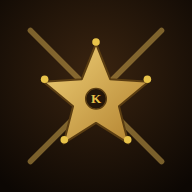
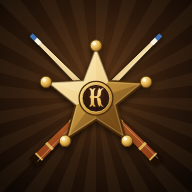
Nouvelle icône, persos animaux aussi en thème Classique
Claude-Session: https://claude.ai/code/session_01RL4nbqDiykBYGHMNMnjLsM

Changed region(s): [[0.125, 0.125, 0.875, 0.875]]

diff --git a/app.js b/app.js
@@ -729,16 +729,12 @@ function avatarHtml(theme, number, size, uidStr) {
     ? '<div class="charImgWrap" style="width:' + size + 'px;height:' + size + 'px;border-radius:10px;flex-shrink:0">' + cardArtHtml(number, null, false) + '</div>'
     : svgBall(number, size, uidStr);
 }
+// Les deux thèmes utilisent les persos (plus de boules de billard).
 function cardFaceHtml(theme, ball, name) {
-  if (theme === "lounge") {
-    return '<div class="cardArtWrap">' + cardArtHtml(ball, name, false) + '</div>';
-  }
-  return '<div class="cardFrontInner">' + svgBall(ball, 30) + '<span class="cardFrontName">' + escapeHtml(name) + '</span></div>';
+  return '<div class="cardArtWrap">' + cardArtHtml(ball, name, false) + '</div>';
 }
 function cardBackHtml(theme) {
-  return '<div class="cardBackInner">' + (theme === "lounge"
-    ? '<span class="cardBackMonogram">K</span>'
-    : '<span class="cardBackEmoji">🎱</span>') + '</div>';
+  return '<div class="cardBackInner"><span class="cardBackMonogram">K</span></div>';
 }
 function cardSlotHtml(theme, id, players, up, isCurrent) {
   var player = null;
@@ -1581,7 +1577,7 @@ function confettiHtml() {
 /* Avatar : perso (Saloon) ou boule (Classique), couronne si Roi */
 function avatar(ball, size, name, extra) {
   var inner = ball != null
-    ? (state.theme === "lounge" ? cardArtHtml(ball, null, false) : '<span class="avBall">' + svgBall(ball, Math.round(size * 0.78)) + '</span>')
+    ? cardArtHtml(ball, null, false)
     : '<span class="avInitial">' + esc(String(name || "?").charAt(0).toUpperCase()) + '</span>';
   var crown = name && isKing(name) ? '<span class="avCrown">' + crownSvg(Math.round(size * 0.42)) + '</span>' : "";
   return '<span class="av' + (extra ? " " + extra : "") + '" style="width:' + size + 'px;height:' + size + 'px">' + '<span class="avClip">' + inner + '</span>' + crown + '</span>';
@@ -1754,8 +1750,7 @@ function renderGameScreen() {
 
 /* ---- Carte piochée en grand ---- */
 function bigCardHtml(p) {
-  if (state.theme === "lounge") return '<div class="bigCard" id="spotCard">' + cardArtHtml(p.ball, null, false) + '</div>';
-  return '<div class="bigCard classicBig" id="spotCard"><div class="bigBall">' + svgBall(p.ball, 150) + '</div></div>';
+  return '<div class="bigCard" id="spotCard">' + cardArtHtml(p.ball, null, false) + '</div>';
 }
 function renderSpotlight() {
   if (!ui.spotlight || ui.activeTab !== "play" || state.phase !== "game") return "";
@@ -1809,7 +1804,7 @@ function renderFinal() {
 function renderPoster(rank, e) {
   var fav = favoriteCardFor(e.name);
   var tilt = [-2.2, 1.8, -1.2, 2.4][rank % 4];
-  var portrait = fav != null ? (state.theme === "lounge" ? cardArtHtml(fav, null, false) : '<div class="posterBall">' + svgBall(fav, 58) + '</div>') : '<span class="posterInitial">' + esc(e.name.charAt(0).toUpperCase()) + '</span>';
+  var portrait = fav != null ? cardArtHtml(fav, null, false) : '<span class="posterInitial">' + esc(e.name.charAt(0).toUpperCase()) + '</span>';
   return '<button class="poster enter" data-key="poster-' + esc(e.name) + '" style="--tilt:' + tilt + 'deg;--d:' + Math.min(rank, 10) * 50 + 'ms" ' + btnAttr("open-profile", 'data-name="' + esc(e.name) + '"') + '>' +
     '<span class="posterPin"></span>' + (rank === 1 ? '<span class="posterCrown">' + crownSvg(14, "inline") + esc(t("kingOfPool")) + '</span>' : "") +
     '<span class="posterHeading">' + esc(t("wanted")) + '</span><span class="posterRule"></span>' +
@@ -1907,7 +1902,7 @@ function renderProfileSheet() {
     statTile(icon("target", 18), t("statRate"), pr.rate == null ? "—" : pr.rate + "%") +
     statTile(icon("flame", 18), t("statStreak"), pr.streak) +
     statTile(icon("sparkle", 18), t("statBest"), pr.best) +
-    statTile(icon("cards", 18), t("statFav"), fav != null ? esc(state.theme === "lounge" ? animalName(fav) : "n° " + fav) : "—") +
+    statTile(icon("cards", 18), t("statFav"), fav != null ? esc(animalName(fav)) : "—") +
     statTile(icon("check", 18), t("statLast"), pr.last ? esc(fmtShortDate(pr.last)) : esc(t("never"))) +
     '</div><p class="hint center small">' + esc(t("streakNote")) + '</p></div></div>';
 }

diff --git a/app.css b/app.css
@@ -169,7 +169,6 @@ textarea.input{height:auto;min-height:104px;padding:12px 14px;font-size:14px;res
 .avBall{display:flex;}
 .avInitial{font-family:var(--fDisplay);font-size:24px;color:var(--gold2);}
 .avCrown{position:absolute;top:-10px;right:-8px;transform:rotate(16deg);filter:drop-shadow(0 2px 2px rgba(0,0,0,.55));line-height:0;}
-[data-theme="classic"] .avClip{background:transparent;border:none;}
 .crown{display:block;}
 .crown.inline{display:inline-block;vertical-align:-2px;margin:0 4px;}
 

diff --git a/sw.js b/sw.js
@@ -1,5 +1,5 @@
 /* Service worker Killer : fonctionne hors-ligne après la première visite. */
-const CACHE = "killer-1f6ae625";
+const CACHE = "killer-69a4fcee";
 const FONTS = "killer-fonts";
 const ASSETS = ["./", "index.html", "app.css", "images.js", "app.js", "manifest.webmanifest",
   "icons/icon-192.png", "icons/icon-512.png", "icons/apple-touch-icon.png",
